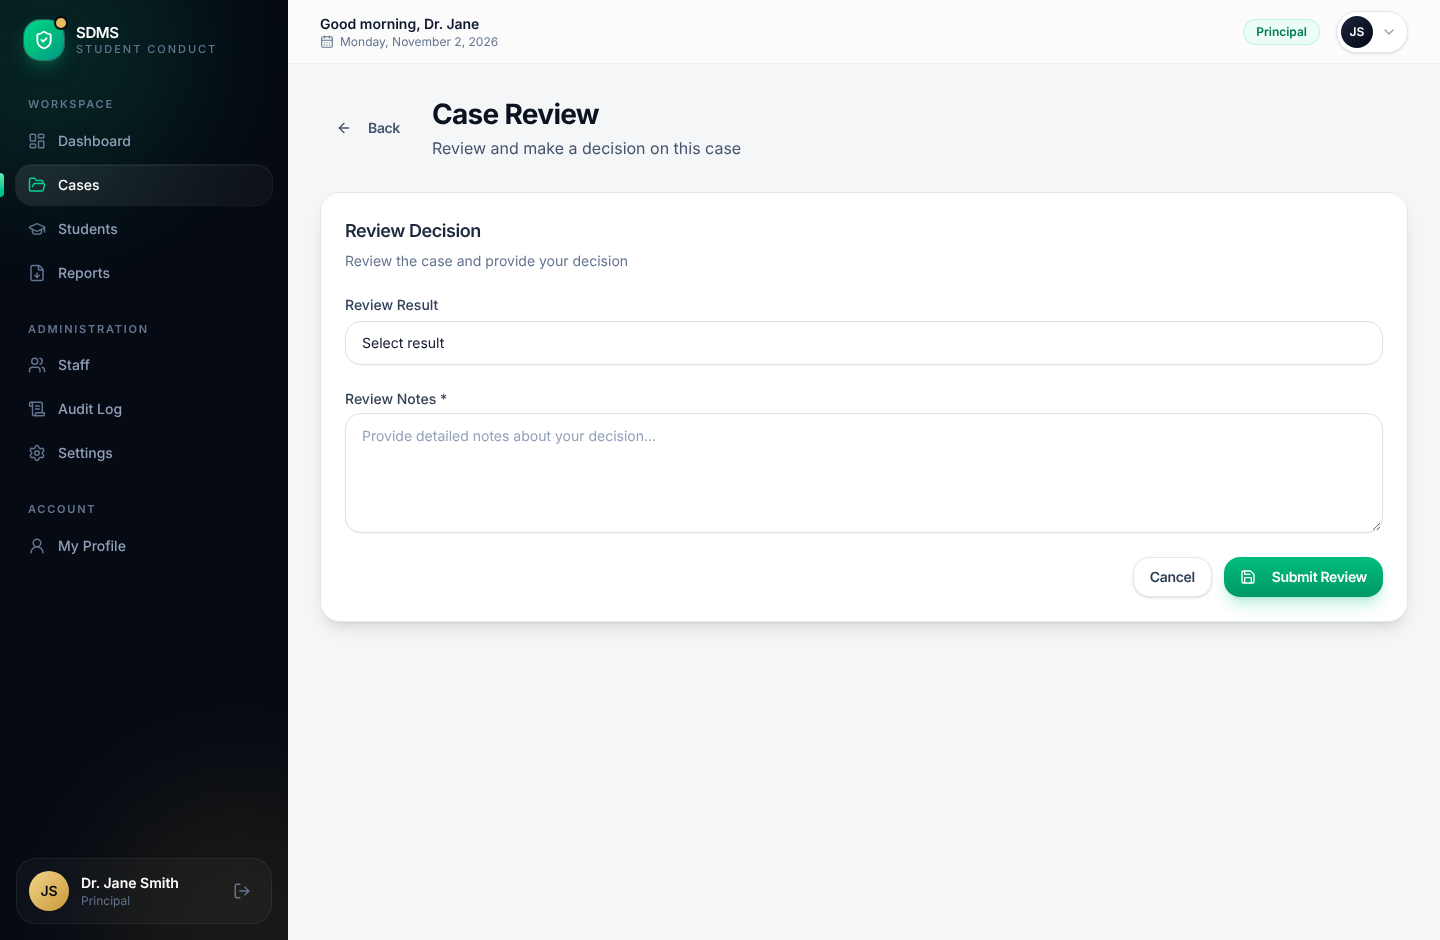
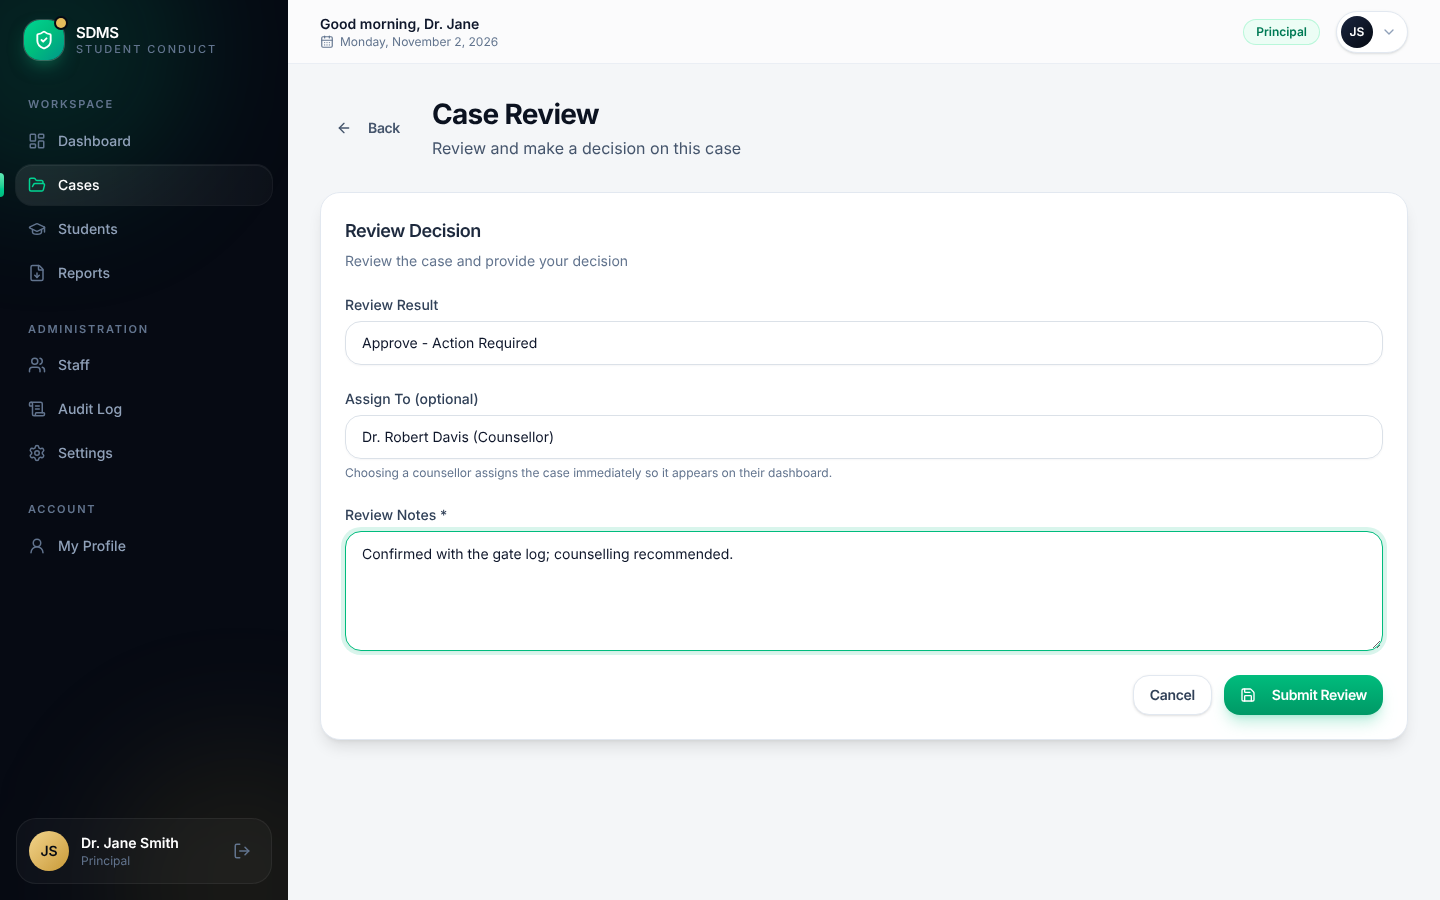
Let deployments build without runtime secrets; polish docs and review flow
- lib/session.ts: skip the SESSION_SECRET guard only while `next build`
  collects page data (NEXT_PHASE=phase-production-build). No request is
  served during the build; the running server still refuses to handle
  sessions without a strong secret. This lets Vercel build the app before
  its secrets are attached.
- Move Prisma CLI settings from package.json#prisma (removed in Prisma 7)
  to prisma.config.ts, which loads .env for local commands.
- Review form: when approving, optionally assign the case to a counsellor
  in the same step so it does not sit unassigned in Action Pending.
- README: drop the stale codex/sdms-repair checkout, document Vercel
  environment variables, Prisma config and screenshots. Update the Arabic
  repair report, which still said the work was unmerged.
- Move the VS Code setting into .vscode/settings.json.

Claude-Session: https://claude.ai/code/session_019HLAztZPKUb6j8UcEyjLs1

diff --git a/app/cases/[id]/review/page.tsx b/app/cases/[id]/review/page.tsx
@@ -1,6 +1,6 @@
 'use client'
 
-import { useState } from 'react'
+import { useEffect, useState } from 'react'
 import { useParams, useRouter } from 'next/navigation'
 import { DashboardLayout } from '@/components/layout/dashboard-layout'
 import { Card, CardContent, CardDescription, CardHeader, CardTitle } from '@/components/ui/card'
@@ -17,7 +17,15 @@ export default function CaseReviewPage() {
   const [formData, setFormData] = useState({
     result: '',
     notes: '',
+    assignedToId: '',
   })
+  const [staff, setStaff] = useState<{ id: string; name: string; role: string }[]>([])
+
+  useEffect(() => {
+    api.getAssignableUsers()
+      .then((r) => { if (r.success && Array.isArray(r.data)) setStaff(r.data as any[]) })
+      .catch(() => {})
+  }, [])
 
   const handleSubmit = async (e: React.FormEvent) => {
     e.preventDefault()
@@ -25,7 +33,10 @@ export default function CaseReviewPage() {
     setIsLoading(true)
 
     try {
-      const response = await api.createCaseReview(params.id as string, formData)
+      // An assignee is only meaningful when the case is approved.
+      const { assignedToId, ...review } = formData
+      const payload = review.result === 'APPROVED' && assignedToId ? { ...review, assignedToId } : review
+      const response = await api.createCaseReview(params.id as string, payload)
       if (response.success) {
         router.push(`/cases/${params.id}`)
       } else {
@@ -78,11 +89,29 @@ export default function CaseReviewPage() {
                 required
               />
 
+              {formData.result === 'APPROVED' && (
+                <div className="space-y-1.5 animate-fade-in">
+                  <Select
+                    label="Assign To (optional)"
+                    value={formData.assignedToId}
+                    onChange={(e) => handleChange('assignedToId', e.target.value)}
+                    options={[
+                      { value: '', label: 'Decide later (case stays Action Pending)' },
+                      ...staff
+                        .filter((u) => ['COUNSELLOR', 'PRINCIPAL'].includes(u.role))
+                        .map((u) => ({ value: u.id, label: `${u.name} (${u.role.charAt(0) + u.role.slice(1).toLowerCase()})` })),
+                    ]}
+                  />
+                  <p className="text-xs text-slate-500">Choosing a counsellor assigns the case immediately so it appears on their dashboard.</p>
+                </div>
+              )}
+
               <div>
-                <label className="block text-sm font-medium text-gray-700 mb-1">
+                <label htmlFor="review-notes" className="mb-1.5 block text-sm font-medium text-slate-700">
                   Review Notes *
                 </label>
                 <textarea
+                  id="review-notes"
                   className="flex min-h-[120px] w-full rounded-xl border border-input bg-white px-4 py-3 text-sm text-slate-900 shadow-[0_1px_2px_rgb(15_23_42/0.04)] transition-all placeholder:text-slate-400 hover:border-slate-300 focus:border-emerald-500 focus:ring-4 focus:ring-emerald-500/15 focus:outline-none"
                   placeholder="Provide detailed notes about your decision..."
                   value={formData.notes}

diff --git a/lib/session.ts b/lib/session.ts
@@ -11,12 +11,19 @@ export interface SessionData {
   isLoggedIn?: boolean
 }
 
-if (process.env.NODE_ENV === 'production' && (!process.env.SESSION_SECRET || process.env.SESSION_SECRET.length < 32 || /^(replace-|default-secret)/i.test(process.env.SESSION_SECRET))) throw new Error('Set a random production SESSION_SECRET of at least 32 characters')
+// `next build` imports route modules to collect page data, but no request (and so no session)
+// is ever handled during the build. Only enforce the secret when the server actually runs, so a
+// deployment can be built before its runtime secrets are attached; the server still refuses to
+// start handling sessions without a strong SESSION_SECRET.
+const isBuildPhase = process.env.NEXT_PHASE === 'phase-production-build'
+
+if (process.env.NODE_ENV === 'production' && !isBuildPhase && (!process.env.SESSION_SECRET || process.env.SESSION_SECRET.length < 32 || /^(replace-|default-secret)/i.test(process.env.SESSION_SECRET))) throw new Error('Set a random production SESSION_SECRET of at least 32 characters')
 
 const sessionTTL = Number(process.env.SESSION_MAX_AGE || '28800')
 if (!Number.isInteger(sessionTTL) || sessionTTL < 60 || sessionTTL > 86400) throw new Error('SESSION_MAX_AGE must be between 60 and 86400 seconds')
 export const sessionOptions = {
   password: process.env.SESSION_SECRET || (() => {
+    if (isBuildPhase) return 'build-phase-placeholder-never-used-for-requests'
     if (process.env.NODE_ENV === 'production') {
       throw new Error('SESSION_SECRET environment variable must be set in production')
     }

diff --git a/prisma.config.ts b/prisma.config.ts
@@ -1,0 +1,17 @@
+import { defineConfig } from 'prisma/config'
+
+// With a config file present the Prisma CLI no longer reads .env on its own,
+// so load it here (Node >= 20.12). Real deployments inject variables directly.
+try {
+  process.loadEnvFile()
+} catch {
+  // No .env file: rely on the environment.
+}
+
+export default defineConfig({
+  schema: 'prisma/schema.prisma',
+  migrations: {
+    path: 'prisma/migrations',
+    seed: 'node prisma/seed.js',
+  },
+})

diff --git a/docs/REPAIR_REPORT_AR.md b/docs/REPAIR_REPORT_AR.md
@@ -36,7 +36,7 @@
 
 ## حدود هذا التسليم
 
-- التغييرات مرفوعة على codex/sdms-repair في طلب سحب؛ لم يجر تشغيل نظام إنتاج أو نقل بيانات حقيقية.
+- دُمجت التغييرات في main عبر طلب السحب #1، ثم أُضيف تحسين الواجهة وإصلاحات إضافية عبر طلب السحب #2؛ لم يجر تشغيل نظام إنتاج أو نقل بيانات حقيقية.
 - تصدير الملاحظات السرية معطل لحين اعتماد سياسة واضحة.
 - الإشعارات البريدية واستعادة كلمة المرور والمرفقات تحتاج مسارات وخدمات إضافية إذا قررت المدرسة إدراجها؛ لا توجد مفاتيح خدمات وهمية تعوض عنها.
 - الحماية من محاولات الدخول داخل التطبيق محلية لكل عملية تشغيل؛ النشر بعدة نسخ يحتاج حماية مشتركة على مستوى الاستضافة.
@@ -50,4 +50,4 @@
 - [نتيجة GitHub Actions الناجحة](https://github.com/muntherh/school/actions/runs/41264182754)
 - [طلب السحب الذي يحتوي الإصلاحات](https://github.com/muntherh/school/pull/1)
 
-تحديث التوثيق اللاحق يسجل النتائج فقط. التغييرات موجودة على الفرع codex/sdms-repair ولم تدمج في main أو تنشر على استضافة إنتاج.
+تحديث التوثيق اللاحق يسجل النتائج فقط. التغييرات مدموجة في main، ولم تُنشر بعد على استضافة إنتاج تحتوي بيانات حقيقية.

diff --git a/README.md b/README.md
@@ -9,7 +9,6 @@ Use Node.js 22 or newer and PostgreSQL 16 or newer.
 ```sh
 git clone https://github.com/muntherh/school.git
 cd school
-git checkout codex/sdms-repair
 npm ci
 # Optional: start the local PostgreSQL service
 docker compose up -d db
@@ -24,6 +23,16 @@ npm run dev
 The seed is development-only and rejects NODE_ENV=production. Its users are fictional; inspect prisma/seed.js for the development credentials. Never seed an operational school database.
 
 SESSION_MAX_AGE is expressed in seconds (28800 = eight hours). Set NEXT_PUBLIC_APP_URL to the real HTTPS origin before building for deployment. Browser API requests use the same origin. SMTP and cloud storage are not needed for the implemented MVP.
+
+Prisma CLI settings live in `prisma.config.ts`, which loads `.env` for local commands (`migrate`, `db seed`, `studio`).
+
+## Screenshots
+
+Screenshots of every page (desktop and mobile), captured from a production build with fictional seed data, are in [`frontend-screenshots/`](frontend-screenshots/).
+
+## Deploying on Vercel
+
+The project builds without runtime secrets, but the running app refuses to handle sessions until they are set. In Vercel → Project Settings → Environment Variables, add `DATABASE_URL` (PostgreSQL), `SESSION_SECRET` (random, at least 32 characters) and `NEXT_PUBLIC_APP_URL` (the deployment's HTTPS origin), then redeploy. Run `npx prisma migrate deploy` against that database once before the first login.
 
 ## PostgreSQL migration
 
